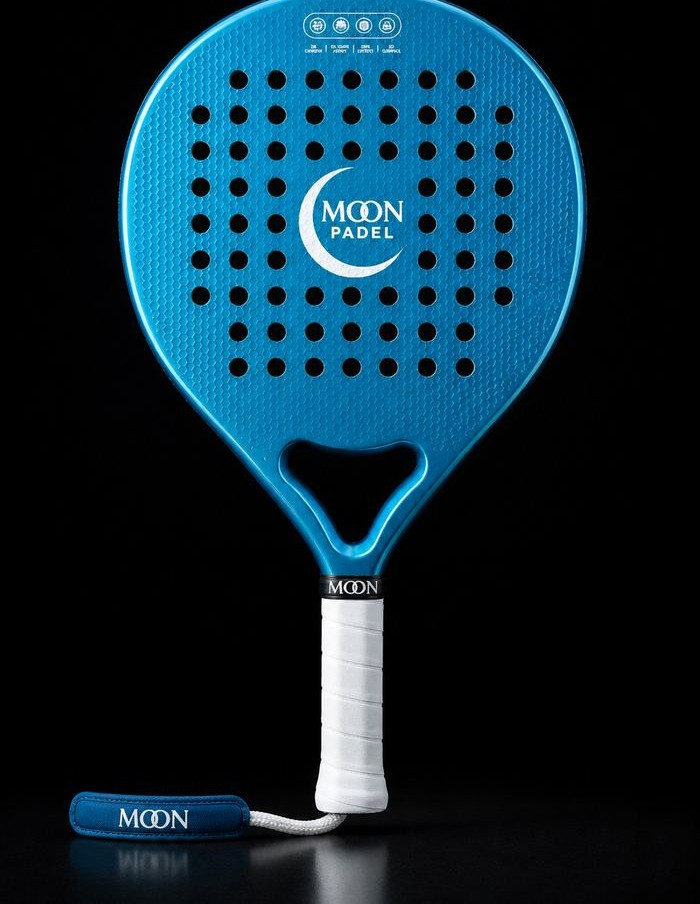
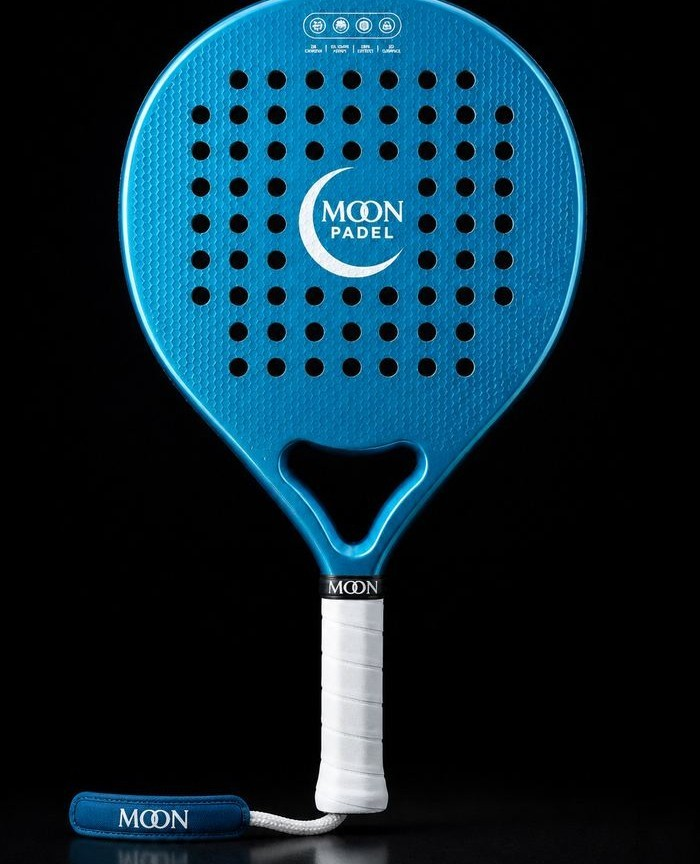
Add files via upload

Changed region(s): [[0.15, 0.0, 0.84, 0.7188], [0.09, 0.8438, 0.57, 1.0], [0.51, 0.75, 0.54, 0.7812]]

diff --git a/index.html b/index.html
@@ -261,7 +261,7 @@
 
   .gallery-grid{display:grid; grid-template-columns:repeat(4,1fr); gap:12px;}
   .gallery-item{border-radius:8px; overflow:hidden; background:#0d0f13; aspect-ratio:1/1;}
-  .gallery-item img, .gallery-item video{width:100%; height:100%; object-fit:cover; display:block;}
+  .gallery-item img, .gallery-item video{width:100%; height:100%; object-fit:cover; object-position:top center; display:block;}
   @media(max-width:900px){ .gallery-grid{grid-template-columns:repeat(2,1fr);} }
 </style>
 </head>
